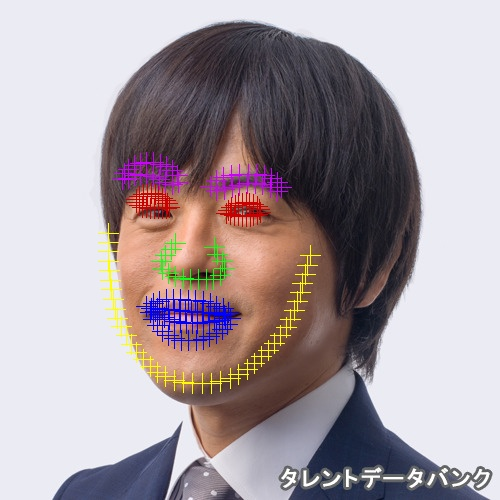
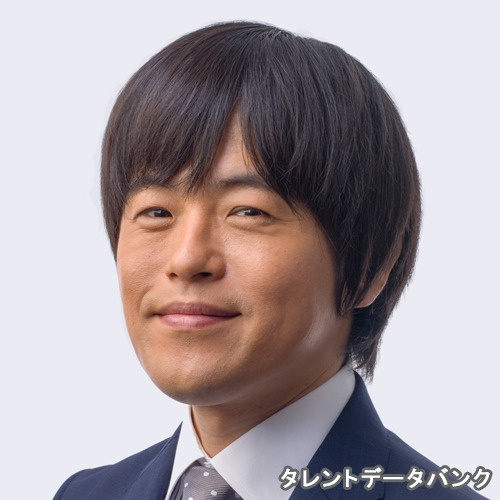
顔のパーツの候補から１つずつ抽出するところまで実装

Changed region(s): [[0.18, 0.45, 0.63, 0.78], [0.21, 0.3, 0.6, 0.45]]

diff --git a/src/find.py b/src/find.py
@@ -4,6 +4,9 @@ import numpy as np
 import os
 import sys
 import glob
+import random
+
+# random.seed(0)
 
 
 # Cascade files directory path
@@ -165,7 +168,7 @@ def normalization(face_landmarks):
     return return_list
 
 
-def drow(imp, points):
+def drow(img, points):
 
     if  points[2]==INDEX_NOSE:
         cv2.drawMarker(img, (points[0], points[1]), (21, 255, 12)) # (B, G, R): 緑
@@ -185,8 +188,23 @@ def drow(imp, points):
         cv2.drawMarker(img, (points[0], points[1]), (0, 255, 255)) # (B, G, R): 緑
 
 
-if __name__ == '__main__':
+def make_face_part_candidate_lst(face_part_candidate_dic, index_part_name,  landmarks):
 
+    
+    tmp_arr = np.array([0, 0]) # 初期化
+    for landmark in landmarks:    
+        for points in landmark:
+            # drow(img, points)
+            if points[2]==index_part_name:
+                tmp_arr = np.vstack([
+                    tmp_arr, [points[0], points[1]]
+                    ])
+    return tmp_arr[1:]
+
+
+
+
+def main():
     image_paths = sorted(glob.glob(os.path.join(INPUT_DIR ,'*.jpg')))
 
     # print(image_paths)
@@ -202,6 +220,27 @@ if __name__ == '__main__':
     [174-193]: left eyebrows
     '''
 
+    chin_lst = []
+    nose_lst = []
+    outside_lip_lst = []
+    inside_lips_lst = []
+    right_eye_lst = []
+    left_eye_lst = []
+    right_eyebrows_lst = []
+    left_eyebrows_lst = []
+
+    face_part_candidate_dic={
+        'chin':chin_lst, 'nose':nose_lst, 'outside_lips':outside_lip_lst, 'inside_lips':inside_lips_lst,
+        'right_eye':right_eye_lst, 'left_eye':left_eye_lst, 'right_eyebrows':right_eyebrows_lst,
+        'left_eyebrows':left_eyebrows_lst
+    }
+
+    face_part_select_dic={
+        'chin':chin_lst, 'nose':nose_lst, 'outside_lips':outside_lip_lst, 'inside_lips':inside_lips_lst,
+        'right_eye':right_eye_lst, 'left_eye':left_eye_lst, 'right_eyebrows':right_eyebrows_lst,
+        'left_eyebrows':left_eyebrows_lst
+    }
+
     for image_path in image_paths:
 
         img = cv2.imread(image_path)
@@ -209,11 +248,46 @@ if __name__ == '__main__':
         landmarks = facemark(gray)
         # print(landmarks)
         landmarks = normalization(landmarks)
-        print(landmarks)
+        # print(landmarks)
 
-        for landmark in landmarks:
-            for points in landmark:
-                    drow(img, points)
-        
+        each_img_chin = make_face_part_candidate_lst(face_part_candidate_dic['chin'], INDEX_CHIN, landmarks)
+        face_part_candidate_dic['chin'].append(each_img_chin)
+        each_img_nose = make_face_part_candidate_lst(face_part_candidate_dic['nose'], INDEX_NOSE, landmarks)
+        face_part_candidate_dic['nose'].append(each_img_nose)
+        each_img_right_eyebroes = make_face_part_candidate_lst(face_part_candidate_dic['right_eyebrows'], INDEX_RIGHT_EYEBROWS, landmarks)
+        face_part_candidate_dic['right_eyebrows'].append(each_img_right_eyebroes)
+        each_img_left_eyebroes = make_face_part_candidate_lst(face_part_candidate_dic['left_eyebrows'], INDEX_LEFT_EYEBROWS, landmarks)
+        face_part_candidate_dic['left_eyebrows'].append(each_img_left_eyebroes)  
+        each_img_right_eye = make_face_part_candidate_lst(face_part_candidate_dic['right_eye'], INDEX_RIGHT_EYE, landmarks)
+        face_part_candidate_dic['right_eye'].append(each_img_right_eye)
+        each_img_left_eye = make_face_part_candidate_lst(face_part_candidate_dic['left_eye'], INDEX_LEFT_EYE, landmarks)
+        face_part_candidate_dic['left_eye'].append(each_img_left_eye) 
+
+        each_img_outside_lips = make_face_part_candidate_lst(face_part_candidate_dic['outside_lips'], INDEX_OUTSIDE_LIPS , landmarks)
+        face_part_candidate_dic['outside_lips'].append(each_img_outside_lips) 
+        each_img_inside_lips = make_face_part_candidate_lst(face_part_candidate_dic['inside_lips'], INDEX_INSIDE_LIPS , landmarks)
+        face_part_candidate_dic['inside_lips'].append(each_img_inside_lips)        
+
         root, ext = os.path.splitext(image_path)
         cv2.imwrite(os.path.join(OUTPUT_DIR, root.split('/')[-1] + '_out' + ext), img)
+
+
+    # print(face_part_candidate_dic)
+    for k, v in face_part_candidate_dic.items():
+        random_num = random.randint(0, len(v)-1)
+        if len(v[random_num])==1:
+            random_num = random.randint(0, len(v)-1)
+            face_part_select_dic[k]=v[random_num]
+            
+        else:
+            face_part_select_dic[k]=v[random_num]
+        
+
+    #顔候補のリスト
+    print(face_part_select_dic)
+    
+
+
+
+if __name__ == '__main__':
+    main()
